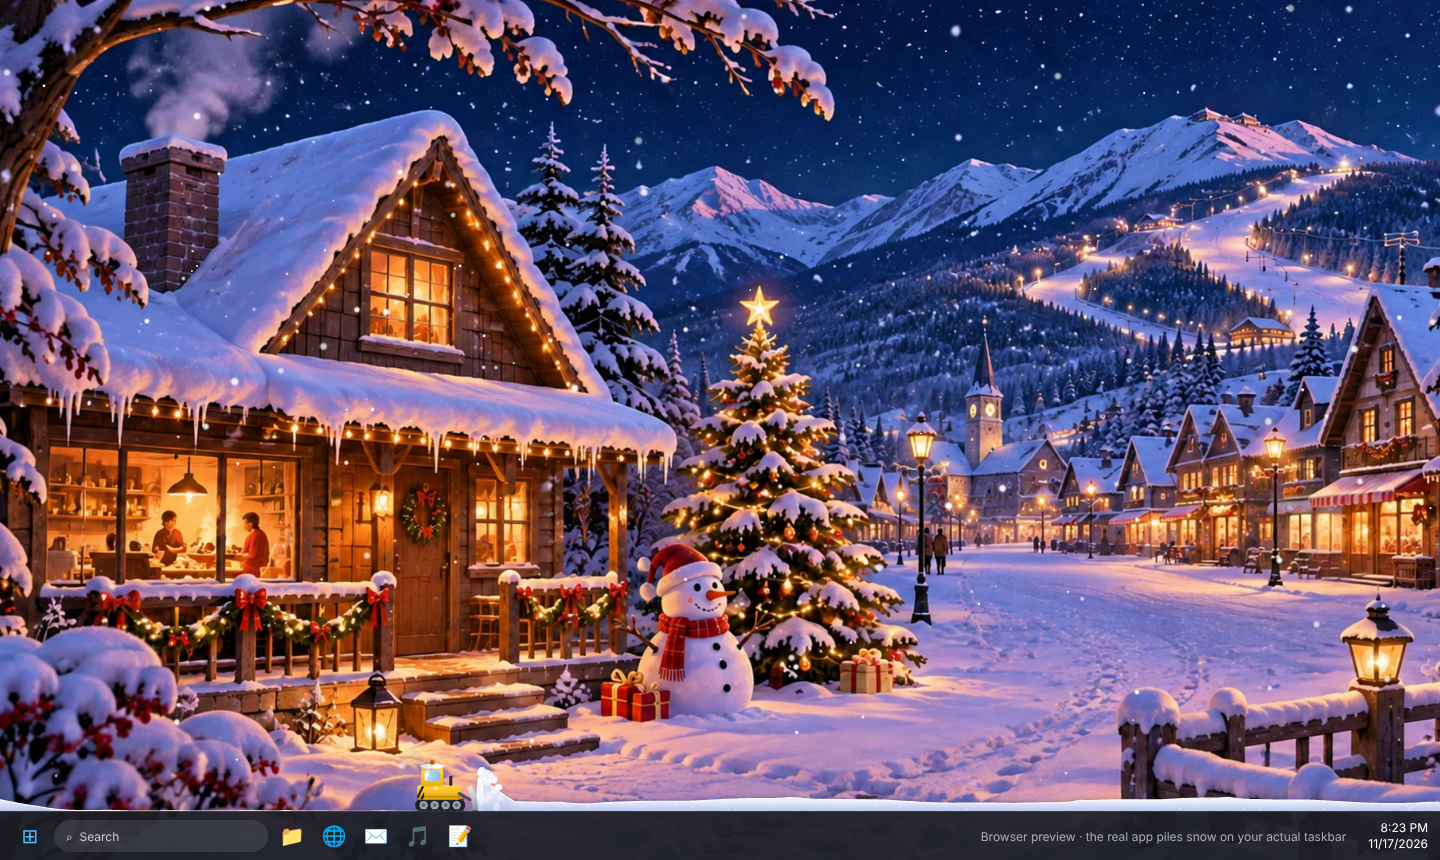
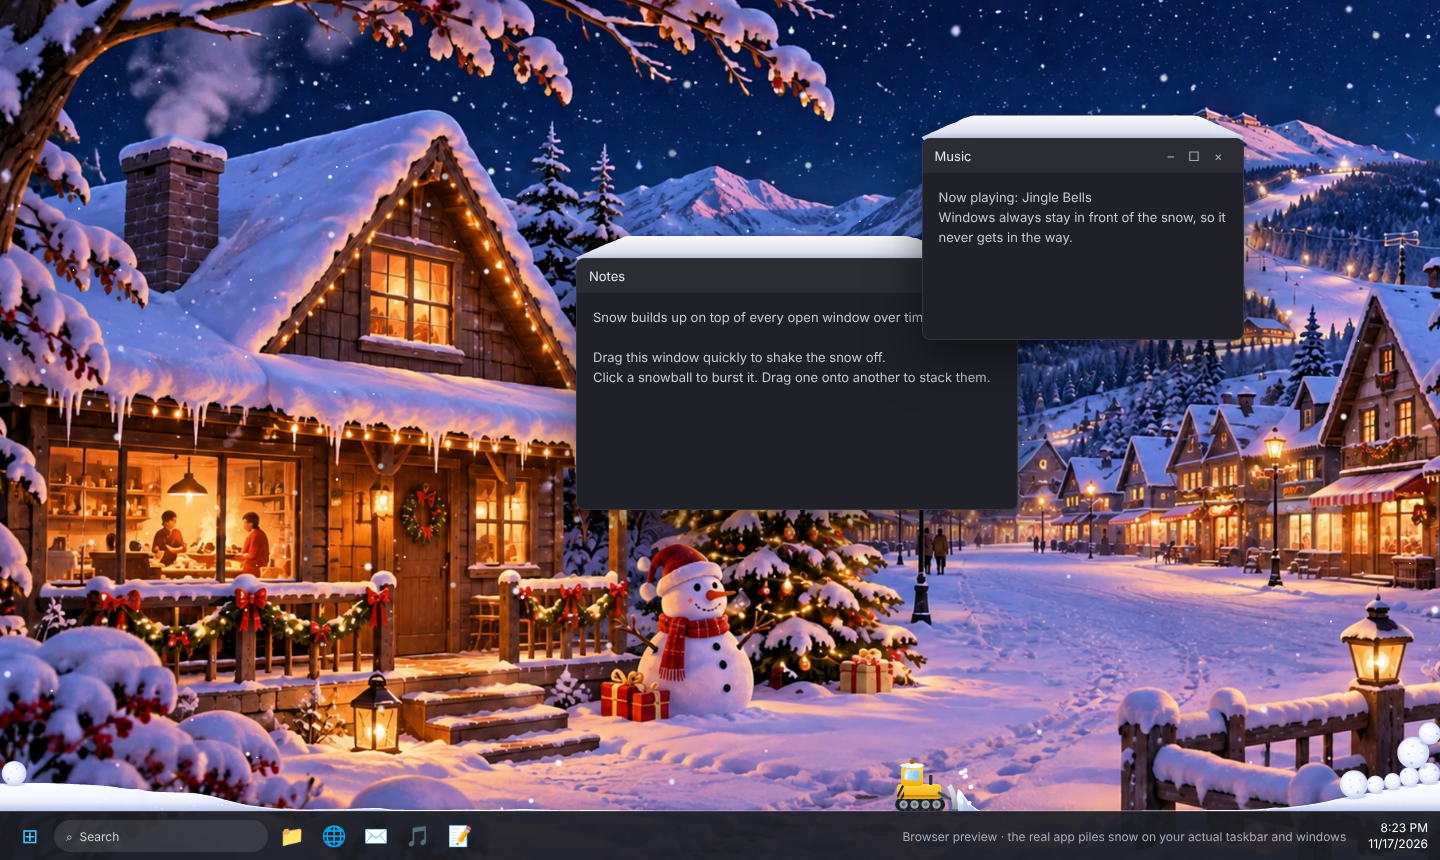
Rewrite README for windows snow, snowballs and wallpaper.png
Claude-Session: https://claude.ai/code/session_01PJLuxLwfF6A34shZiX8Qvd

diff --git a/README.md b/README.md
@@ -1,24 +1,42 @@
 # Snowly ❄
 
-A winter desktop for Windows: a 4K snowy village wallpaper, snow falling across the screen, snow piling up on top of the taskbar, and a little yellow snowplow that pushes it into drifts.
+A winter desktop for Windows: a 4K snowy village wallpaper, falling snow, snow that piles up on the taskbar and on top of every open window, snowballs you can play with, and a little yellow snowplow that pushes the snow into drifts.
+
+All of it lives **behind your windows**, so it never gets in the way of your work.
 
 ![Preview](docs/preview.png)
 
 ## Features
 
-- **4K winter wallpaper.** On first run Snowly sets a 3840 × 2160 snowy village scene as your Windows wallpaper. Your previous wallpaper is remembered so you can switch back with one click.
-- **Falling snow.** Flakes come in two depth layers, each with its own size, speed and drift.
+- **Stays behind your work.** Snowly draws on a layer directly above the desktop and below every app window. Clicks go straight through to your desktop icons, except when you click a snowball.
+- **Snow on every window.** Snow builds up along the top edge of each open window over time, and a window fills up in about 8 minutes. The snow moves with the window, and dragging a window quickly shakes it off. Maximized windows don't collect snow.
 - **Snow on the taskbar.** Flakes that reach the taskbar stay there. Snow slides when a slope gets too steep, so the drifts form natural slopes and mounds.
-- **A snowplow that really pushes.** Snow in front of the blade builds into a growing wedge, and the plow slows down as the load gets heavier. Once the pile is taller than the blade, clumps tumble over the top and roll ahead. At the edge of the screen the plow leaves a drift behind, backs up, turns around and plows the other way.
-- **Stays out of your way.** The overlay is transparent and click-through, and it never covers the taskbar itself.
+- **Snowballs.** Snowballs sit on the taskbar snow, and new ones roll up over time.
+  - Click a snowball to burst it. The snow falls back onto the ground.
+  - Drag a snowball to move it, or throw it.
+  - Drop one snowball onto another to stack them. You can also put one on top of a window.
+- **A snowplow that really pushes.** Snow in front of the blade builds into a growing wedge, and the plow slows down as the load gets heavier. Once the pile is taller than the blade, clumps tumble over the top. At the edge of the screen the plow leaves a drift, backs up, turns around and plows the other way. It also shoves snowballs along.
+- **4K winter wallpaper.** On first run Snowly sets `wallpaper.png` as your Windows wallpaper. Your previous wallpaper is remembered, so you can switch back with one click.
+
+Because everything sits behind your windows, a maximized window covers the taskbar snow and the plow. They show up again when you restore or minimize the window.
 
 ## Download (no Node.js needed)
 
-Download `Snowly-win-x64.zip` from the latest **Release**, unzip it and run `Snowly.exe`.
+1. Download `Snowly-win-x64.zip` from the latest **Release**.
+2. Unzip it and run `Snowly.exe`.
 
-Every push to `main` builds the app and publishes a release named after the version in `package.json` (for example `v1.1.0`). To ship a new release, bump `version` and push.
+Every push to `main` builds the app and publishes a release named after the version in `package.json` (for example `v1.2.0`). To ship a new release, bump `version` and push.
 
 > The app is not code-signed, so Windows SmartScreen may warn you the first time. Click **More info → Run anyway**.
+
+## Change the wallpaper
+
+Replace **`wallpaper.png`** with any image you like. Keep the name `wallpaper.png`. A 3840 × 2160 image looks best.
+
+- In the downloaded app, `wallpaper.png` is in the same folder as `Snowly.exe`.
+- When running from source, it is in the project folder.
+
+Snowly notices the new file within a few seconds and sets it as your wallpaper. You don't need to restart anything.
 
 ## Run from source
 
@@ -41,7 +59,7 @@ To build the `.exe` yourself:
 npm run pack
 ```
 
-The app is written to `dist\Snowly-win32-x64\Snowly.exe`.
+The app is written to `dist\Snowly-win32-x64\`, with `wallpaper.png` next to `Snowly.exe`.
 
 ## Tray menu
 
@@ -49,10 +67,10 @@ Click the ❄ icon in the notification area:
 
 | Item | What it does |
 |---|---|
-| Snowfall | Off / Light / Medium / Heavy. "Off" stops new snow but keeps the snow on the taskbar and the plow |
+| Snowfall | Off / Light / Medium / Heavy. "Off" stops new snow but keeps the snow that's already there |
 | Snowplow / Snowplow size | Turn the plow on or off, change its size |
-| Clear snow | Remove all snow from the taskbar |
-| Winter wallpaper | Checked: use the winter wallpaper. Unchecked: go back to your previous wallpaper |
+| Clear snow | Remove the snow from the taskbar and all windows |
+| Winter wallpaper | Checked: use `wallpaper.png`. Unchecked: go back to your previous wallpaper |
 | Restore my previous wallpaper | Switch back to the wallpaper you had before Snowly |
 | Pause | Freeze the animation |
 | Show / hide | Also **Ctrl + Alt + S** |
@@ -61,24 +79,29 @@ Click the ❄ icon in the notification area:
 
 Settings are saved in `%APPDATA%\snowly\settings.json`.
 
-## Use your own wallpaper
+## How it works
 
-Replace `assets/wallpaper.jpg` with any image (3840 × 2160 recommended), then raise `WALLPAPER_VERSION` in `main.js` so the new image is applied on the next start.
-
-## Web version
-
-`web/index.html` is the original browser version: a Mac-style desktop where snow settles on top of the windows and snowmen stand on them. Open it in any browser.
+- `main.js` creates a transparent window over the desktop work area, so its bottom edge is the top of the taskbar. Every 250 ms it moves this window directly above the desktop, below all app windows.
+- `winapi.js` calls the Windows API through [koffi](https://koffi.dev), a prebuilt FFI library, so nothing has to be compiled. It lists the visible app windows in z-order every 50 ms. The page uses that list to pile snow on window tops and to know which parts are covered.
+- `renderer/snow.js` simulates and draws the snow:
+  - Each surface is a height map. Snow slides when a slope passes the angle of repose.
+  - The plow's body is solid, so the snow it meets is pushed ahead of the blade.
+  - Snowballs are circles with gravity, sticky contacts with each other, and resting contacts with the snow surfaces.
+- Clicks normally pass through the Snowly window. The page still receives mouse-move events, and while the pointer is over a snowball it asks the app to accept clicks.
 
 ## Project layout
 
 ```
-main.js              Transparent always-on-top overlay, tray menu, shortcut, autostart, wallpaper
-preload.js           Passes settings from the main process to the page
-renderer/snow.js     Snow physics and drawing (falling snow, snow height map, sliding, the plow)
-renderer/index.html  Overlay page. Opened in a browser it shows a preview with a mock taskbar
-assets/wallpaper.jpg 4K wallpaper
-web/index.html       Browser version
-.github/workflows/   Builds the Windows app and publishes releases
+main.js                Snowly window, tray menu, shortcut, autostart, wallpaper, window tracking
+winapi.js              Windows API calls (window list, keeping Snowly behind app windows)
+preload.js             Bridge between the app and the page
+renderer/snow.js       Snow physics and drawing
+renderer/index.html    The Snowly page. Opened in a browser it shows a preview
+renderer/demo.js       Browser preview only: sample windows you can drag
+wallpaper.png          The wallpaper. Replace it to use your own
+web/index.html         Original browser version (Mac-style desktop with snowmen)
+scripts/               Packaging helper and a CI check for the Windows API calls
+.github/workflows/     Builds the Windows app and publishes releases
 ```
 
 Browser preview: open `renderer/index.html`. Add `?fast=4` to the address to play it at 4× speed.
@@ -86,12 +109,14 @@ Browser preview: open `renderer/index.html`. Add `?fast=4` to the address to pla
 To change how the snow behaves, edit the constants at the top of `renderer/snow.js`:
 
 - `REPOSE`: how steep a drift can get
-- `SNOW_RATE`: how fast snow builds up
+- `SNOW_RATE`: how fast snow builds up on the taskbar
+- `WIN_RATE`: how fast snow builds up on windows
+- `WMAX`: the deepest snow a window can hold
 - `BLADE_H`: blade height
 
 ## Known limitations
 
 - Primary monitor only.
 - If the taskbar is on the side or top of the screen, snow collects along the bottom edge of the screen instead.
-- Snow also falls over full-screen games and videos. Press Ctrl + Alt + S to hide it.
-- The wallpaper was upscaled to 4K from a 1671 × 941 image with an AI super-resolution model (EDSR ×4). It is sharper than a plain resize, but it does not have the detail of a native 4K image.
+- Snow on a window is drawn just above its top edge. If another window overlaps that strip, the overlapping window hides the snow there.
+- The included wallpaper was upscaled to 4K from a 1671 × 941 image with an AI super-resolution model (EDSR ×4). It is sharper than a plain resize, but it does not have the detail of a native 4K image.
